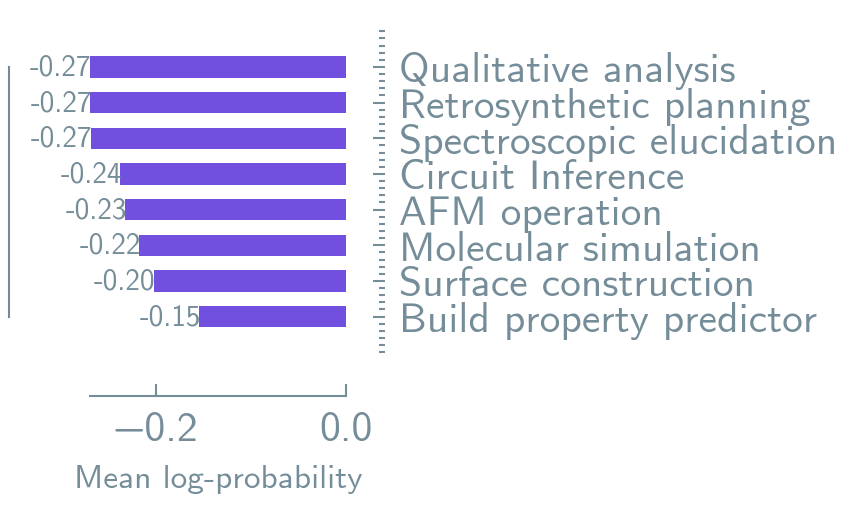
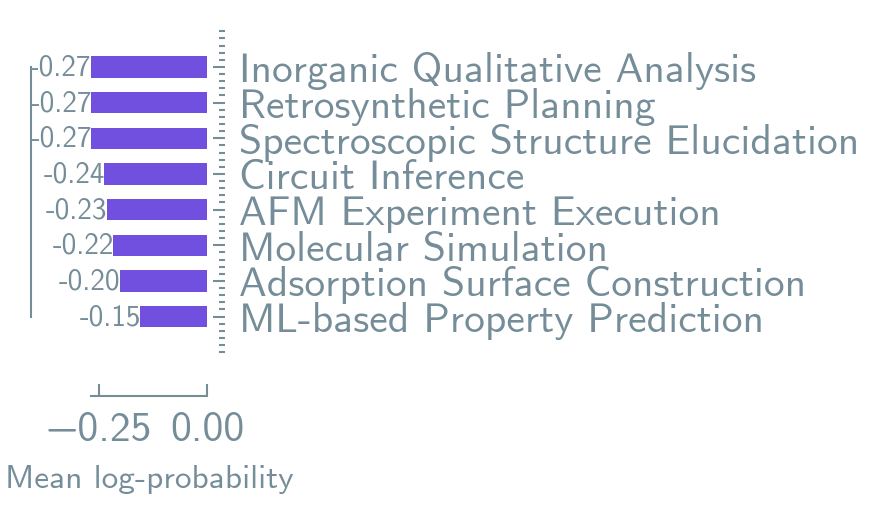
chore: font size increase

diff --git a/plots/panel_6/plot_mean_logprobs_by_env.py b/plots/panel_6/plot_mean_logprobs_by_env.py
@@ -28,20 +28,14 @@ from plot_config import (  # noqa: E402
 from plot_utils import load_logprobs_data  # noqa: E402
 
 ENVIRONMENT_NAMES = {
-    "afm": "AFM operation",
-    "catalyst": "Surface construction",
-    "md": "Molecular simulation",
-    "ml": "Build property predictor",
-    # Options for a shorter name focused on building ML models:
-    # "ml": "ML training",
-    # "ml": "Build ML model",
-    # "ml": "Model fitting",
-    # "ml": "ML build",
-    # "ml": "Train ML model",
-    "resistor": "Circuit Inference",
-    "retro": "Retrosynthetic planning",
-    "spectra": "Spectroscopic elucidation",
-    "wetlab": "Qualitative analysis",
+    "afm": "AFM Experiment\nExecution",
+    "catalyst": "Adsorption Surface\nConstruction",
+    "md": "Molecular\nSimulation",
+    "ml": "ML-based Property\nPrediction",
+    "resistor": "Circuit\nInference",
+    "retro": "Retrosynthetic\nPlanning",
+    "spectra": "Spectroscopic Structure\nElucidation",
+    "wetlab": "Inorganic Qualitative\nAnalysis",
 }
 
 
@@ -84,7 +78,7 @@ def compute_env_stats(df: pd.DataFrame) -> pd.DataFrame:
         rows.append(
             {
                 "environment": env,
-                "display_name": ENVIRONMENT_NAMES.get(env, env),
+                "display_name": ENVIRONMENT_NAMES.get(env, env).replace("\n", " "),
                 "mean": float(np.mean(tokens)),
                 "n_tokens": int(tokens.size),
                 "color": "#7150e0",
